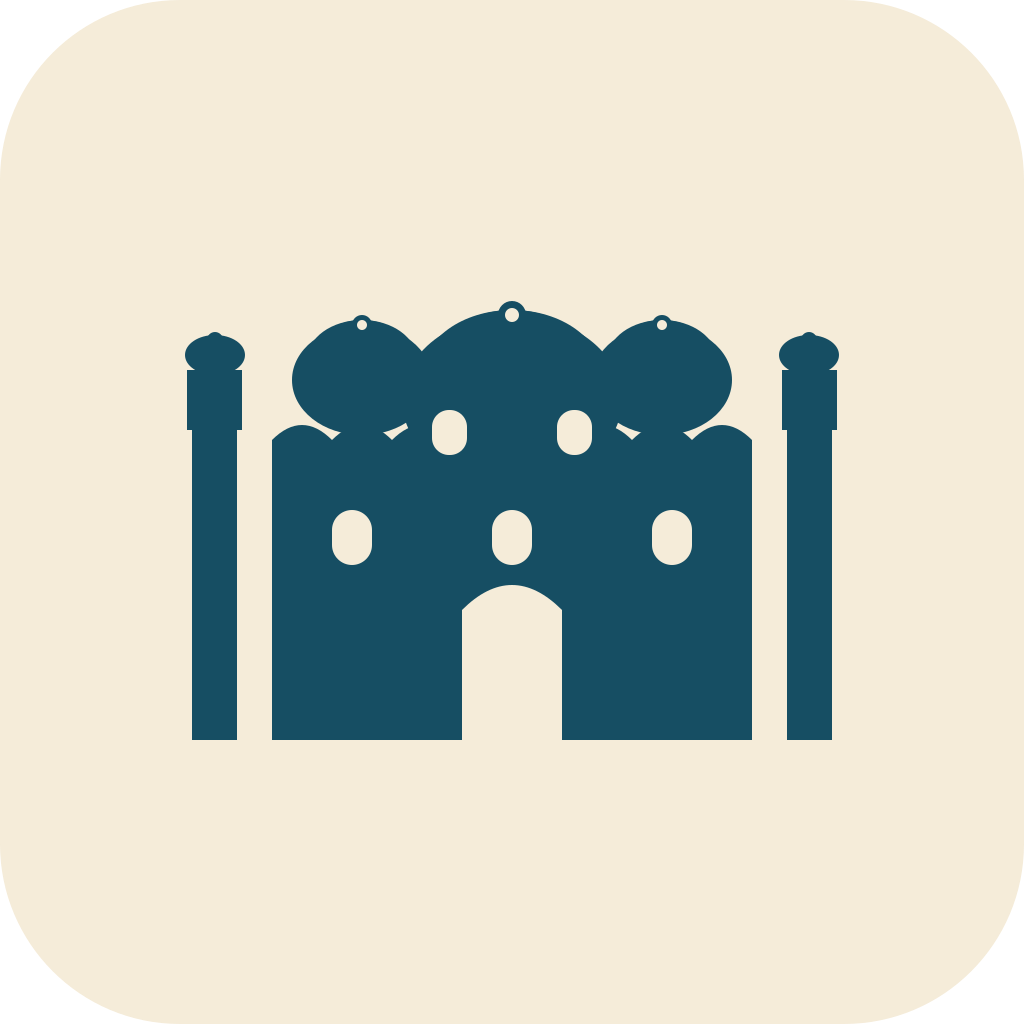
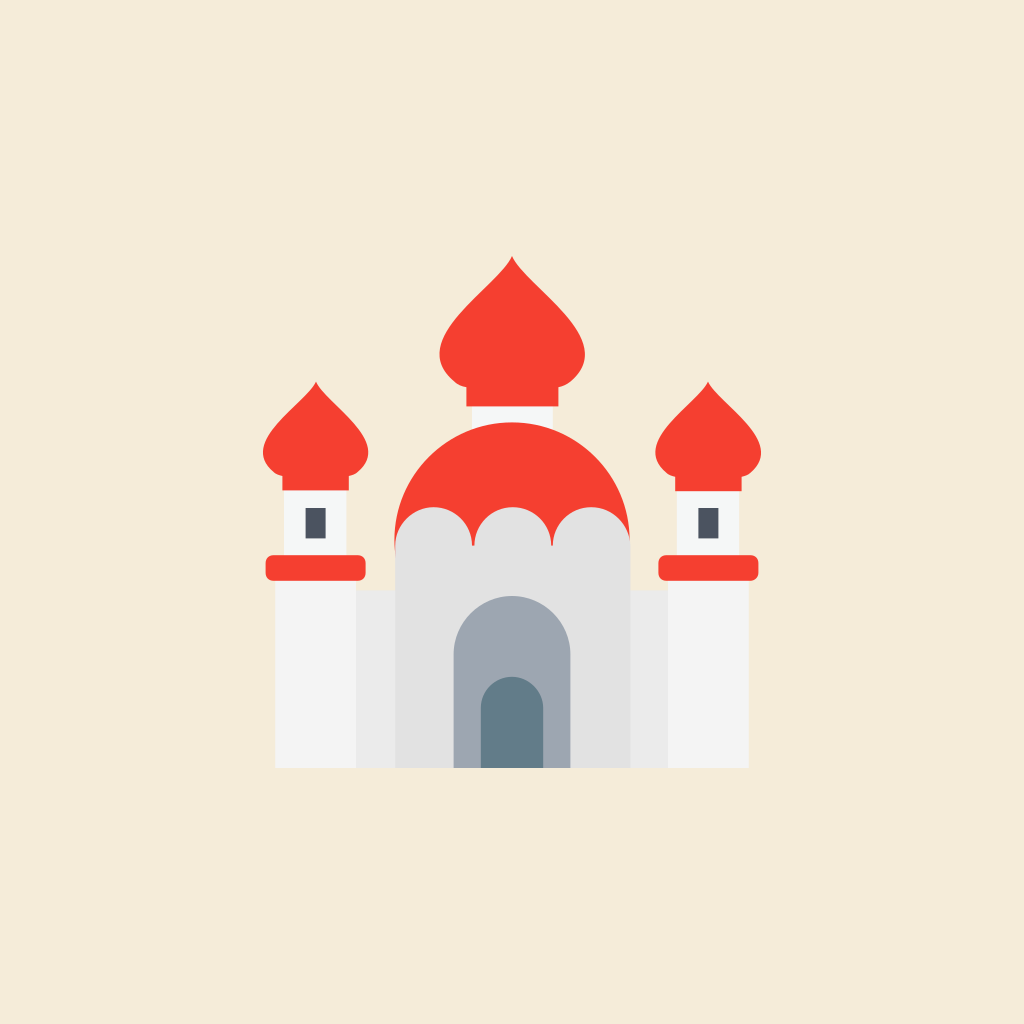
Add web export support for Vercel deployment

diff --git a/frontend/assets/generate-icons.js b/frontend/assets/generate-icons.js
@@ -1,0 +1,97 @@
+const sharp = require('sharp');
+const fs = require('fs');
+
+const CREAM_COLOR = '#F5ECD9';
+const MOSQUE_SOURCE = './mosque-reference.png';
+const ICON_OUTPUT = './icon.png';
+const ADAPTIVE_ICON_OUTPUT = './adaptive-icon.png';
+const SPLASH_OUTPUT = './splash.png';
+
+async function generateIcons() {
+  try {
+    console.log('Reading mosque reference image...');
+    const mosqueImage = sharp(MOSQUE_SOURCE);
+    const mosqueMetadata = await mosqueImage.metadata();
+    console.log(`Mosque image size: ${mosqueMetadata.width}x${mosqueMetadata.height}`);
+
+    // Generate icon.png (1024x1024)
+    console.log('Generating icon.png...');
+    const iconSize = 1024;
+    const icon = await sharp({
+      create: {
+        width: iconSize,
+        height: iconSize,
+        channels: 3,
+        background: CREAM_COLOR
+      }
+    })
+    .composite([
+      {
+        input: MOSQUE_SOURCE,
+        gravity: 'center'
+      }
+    ])
+    .png()
+    .toFile(ICON_OUTPUT);
+    console.log('✅ icon.png created');
+
+    // Generate adaptive-icon.png (1024x1024 with safe zone)
+    console.log('Generating adaptive-icon.png...');
+    const adaptiveSize = 1024;
+    const safeZoneSize = Math.floor(adaptiveSize * 0.66); // 66% safe zone
+    const mosqueResized = await sharp(MOSQUE_SOURCE)
+      .resize(safeZoneSize, safeZoneSize, { fit: 'inside', withoutEnlargement: true })
+      .toBuffer();
+
+    const adaptiveIcon = await sharp({
+      create: {
+        width: adaptiveSize,
+        height: adaptiveSize,
+        channels: 3,
+        background: CREAM_COLOR
+      }
+    })
+    .composite([
+      {
+        input: mosqueResized,
+        gravity: 'center'
+      }
+    ])
+    .png()
+    .toFile(ADAPTIVE_ICON_OUTPUT);
+    console.log('✅ adaptive-icon.png created');
+
+    // Generate splash.png (larger for splash screen)
+    console.log('Generating splash.png...');
+    const splashSize = 1280;
+    const splashMosqueSize = Math.floor(splashSize * 0.4); // Mosque takes up ~40% of splash
+    const splashMosque = await sharp(MOSQUE_SOURCE)
+      .resize(splashMosqueSize, splashMosqueSize, { fit: 'inside', withoutEnlargement: true })
+      .toBuffer();
+
+    const splash = await sharp({
+      create: {
+        width: splashSize,
+        height: splashSize,
+        channels: 3,
+        background: CREAM_COLOR
+      }
+    })
+    .composite([
+      {
+        input: splashMosque,
+        gravity: 'center'
+      }
+    ])
+    .png()
+    .toFile(SPLASH_OUTPUT);
+    console.log('✅ splash.png created');
+
+    console.log('\n✨ All icons generated successfully!');
+  } catch (error) {
+    console.error('❌ Error generating icons:', error);
+    process.exit(1);
+  }
+}
+
+generateIcons();
